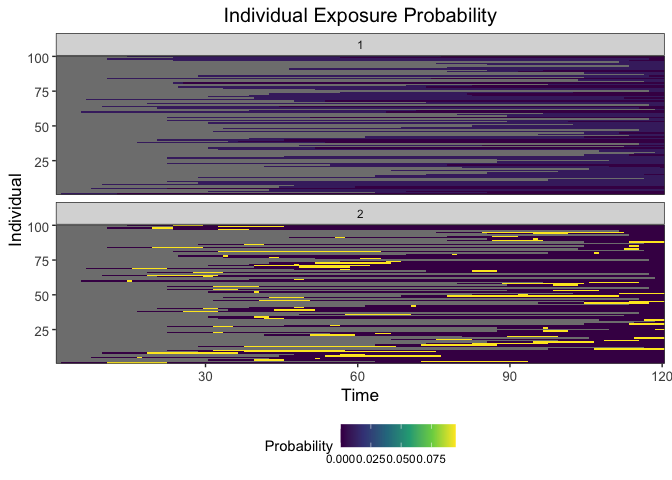
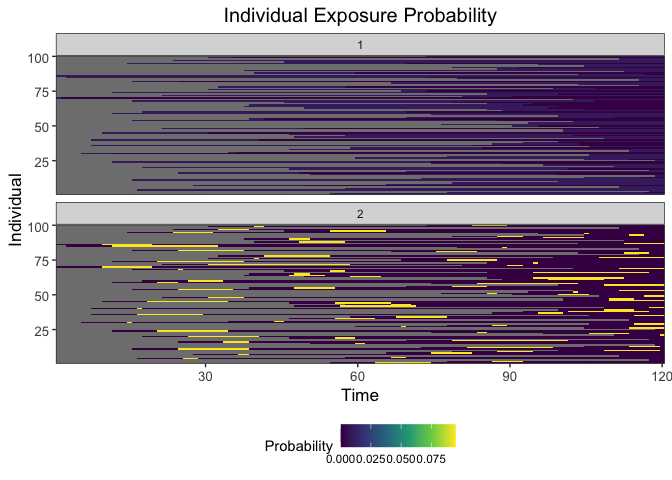
Updated README

Changed region(s): [[0.0938, 0.0938, 1.0, 0.4062], [0.0938, 0.4688, 1.0, 0.7812]]

diff --git a/README.md b/README.md
@@ -38,18 +38,13 @@ Load necessary packages:
 devtools::install_github("AMenezes97/serosim")
 ```
 
-    ## deSolve (1.30 -> 1.34) [CRAN]
     ## 
-    ## The downloaded binary packages are in
-    ##  /var/folders/hz/p73gx8v941q29dz9n1xr5t500000gn/T//RtmpoAWNYR/downloaded_packages
-    ##      checking for file ‘/private/var/folders/hz/p73gx8v941q29dz9n1xr5t500000gn/T/RtmpoAWNYR/remotes13aa9404d61e8/AMenezes97-serosim-8ec1762/DESCRIPTION’ ...  ✔  checking for file ‘/private/var/folders/hz/p73gx8v941q29dz9n1xr5t500000gn/T/RtmpoAWNYR/remotes13aa9404d61e8/AMenezes97-serosim-8ec1762/DESCRIPTION’
-    ##   ─  preparing ‘serosim’:
-    ##      checking DESCRIPTION meta-information ...  ✔  checking DESCRIPTION meta-information
-    ##   ─  checking for LF line-endings in source and make files and shell scripts
-    ##   ─  checking for empty or unneeded directories
-    ##   ─  building ‘serosim_0.0.0.9000.tar.gz’
-    ##      
-    ## 
+    ## * checking for file ‘/private/var/folders/hz/p73gx8v941q29dz9n1xr5t500000gn/T/RtmpbITF0P/remotes13b9e75b36f0d/AMenezes97-serosim-eaed2a2/DESCRIPTION’ ... OK
+    ## * preparing ‘serosim’:
+    ## * checking DESCRIPTION meta-information ... OK
+    ## * checking for LF line-endings in source and make files and shell scripts
+    ## * checking for empty or unneeded directories
+    ## * building ‘serosim_0.0.0.9000.tar.gz’
 
 ``` r
 library(serosim)
@@ -104,11 +99,11 @@ summary(demography)
 ```
 
     ##        i              birth           removal        times       
-    ##  Min.   :  1.00   Min.   :  2.00   Min.   :121   Min.   :  1.00  
-    ##  1st Qu.: 25.75   1st Qu.: 30.50   1st Qu.:121   1st Qu.: 30.75  
-    ##  Median : 50.50   Median : 59.50   Median :121   Median : 60.50  
-    ##  Mean   : 50.50   Mean   : 62.98   Mean   :121   Mean   : 60.50  
-    ##  3rd Qu.: 75.25   3rd Qu.: 98.50   3rd Qu.:121   3rd Qu.: 90.25  
+    ##  Min.   :  1.00   Min.   :  1.00   Min.   :121   Min.   :  1.00  
+    ##  1st Qu.: 25.75   1st Qu.: 32.50   1st Qu.:121   1st Qu.: 30.75  
+    ##  Median : 50.50   Median : 71.50   Median :121   Median : 60.50  
+    ##  Mean   : 50.50   Mean   : 65.33   Mean   :121   Mean   : 60.50  
+    ##  3rd Qu.: 75.25   3rd Qu.:100.00   3rd Qu.:121   3rd Qu.: 90.25  
     ##  Max.   :100.00   Max.   :119.00   Max.   :121   Max.   :120.00
 
 # 1.3 Exposure to biomarker mapping
@@ -404,12 +399,12 @@ head(res$kinetics_parameters)
     ## # A tibble: 6 × 7
     ##       i     t     x     b name    value realized_value
     ##   <int> <dbl> <dbl> <dbl> <chr>   <dbl>          <dbl>
-    ## 1     1    12     1     1 boost 5.56           5.56   
-    ## 2     1    12     1     1 wane  0.00273        0.00273
-    ## 3     1    22     2     1 boost 2.69           2.69   
-    ## 4     1    22     2     1 wane  0.00104        0.00104
-    ## 5     2    85     1     1 boost 7.53           7.53   
-    ## 6     2    85     1     1 wane  0.00313        0.00313
+    ## 1     1    74     2     1 boost 1.21           1.21   
+    ## 2     1    74     2     1 wane  0.00219        0.00219
+    ## 3     2    92     2     1 boost 1.95           1.95   
+    ## 4     2    92     2     1 wane  0.00216        0.00216
+    ## 5     2   116     1     1 boost 5.88           5.88   
+    ## 6     2   116     1     1 wane  0.00388        0.00388
 
 ``` r
 ## Combine plots as seen in paper 
